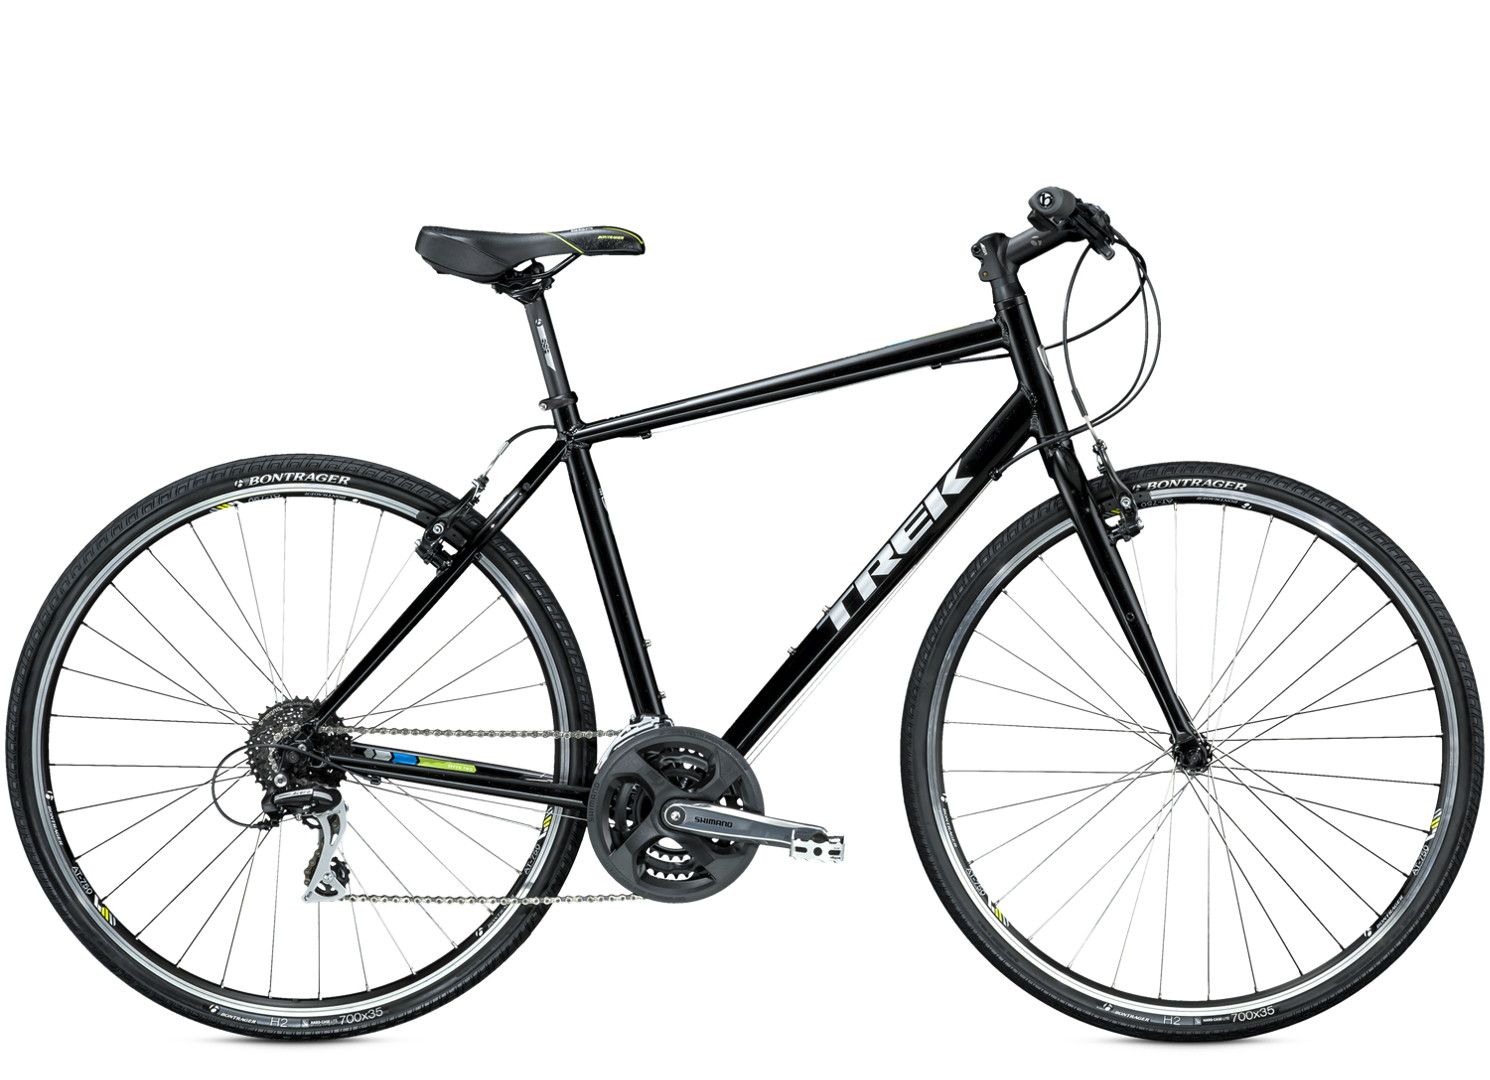
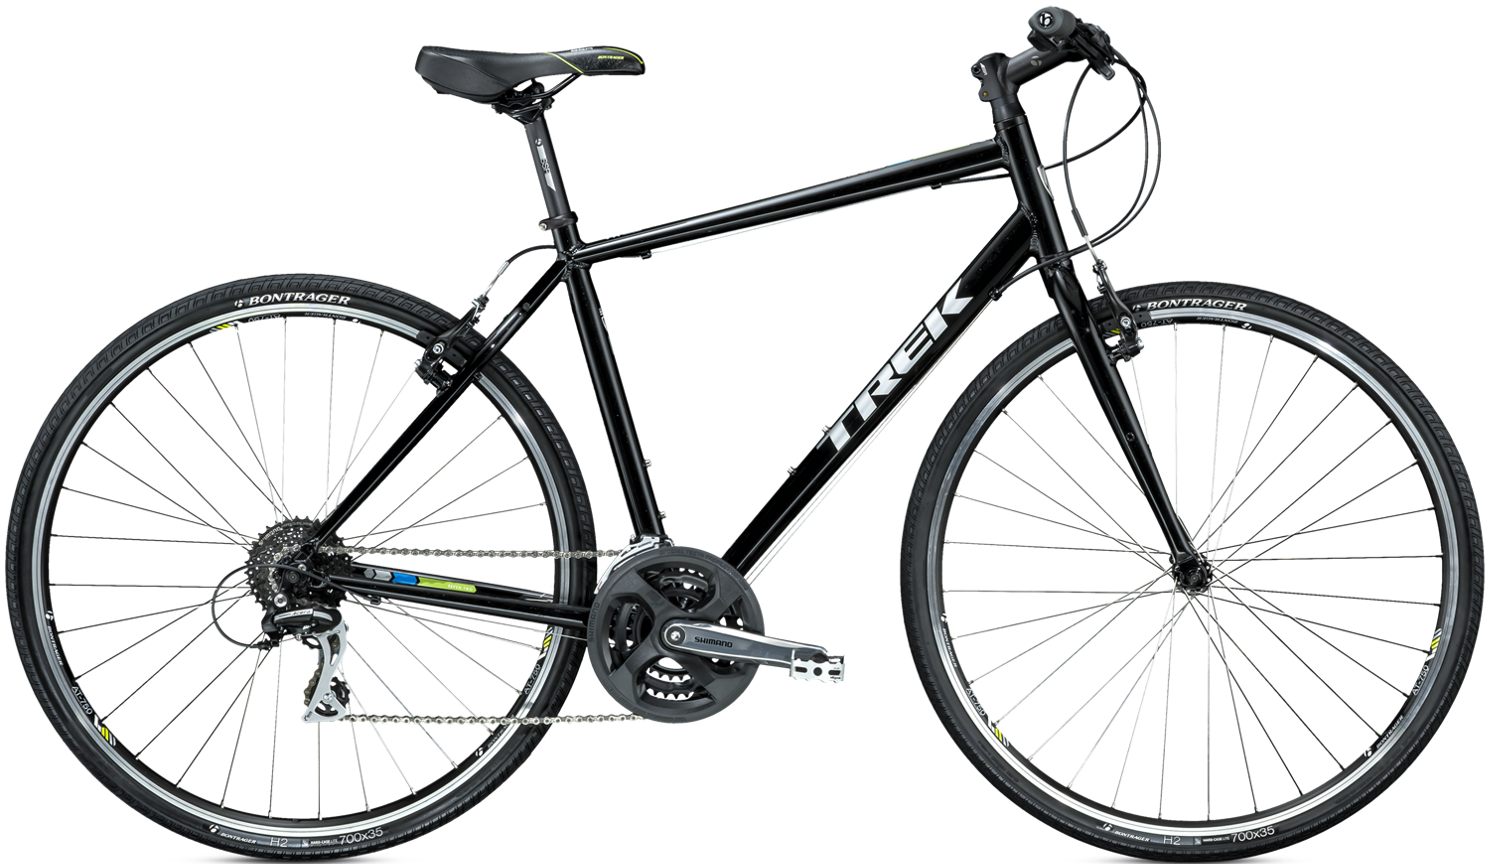
Anasayfa ve kadro boyu sayfasi duzenlendi.

Changed region(s): [[0.0, 0.0, 1.0, 1.0]]

diff --git a/webProje/wwwroot/css/site.css b/webProje/wwwroot/css/site.css
@@ -192,3 +192,6 @@ header.masthead .bg-circle-4 {
     background-color: rgba(0, 0, 0, 0.7);
     padding: 10px;
 }
+.carousel-item img {
+    margin: auto;
+}

diff --git a/webProje/wwwroot/css/kadro.css b/webProje/wwwroot/css/kadro.css
@@ -1,0 +1,7 @@
+td {
+    color: black;
+}
+h2 {
+    color: #4B1F00;
+}
+

diff --git a/webProje/Controllers/BisikletController.cs b/webProje/Controllers/BisikletController.cs
@@ -27,6 +27,11 @@ namespace webProje.Controllers
             return View(bisikletListe);
         }
 
+        public IActionResult KadroBoyu()
+        {
+            return View();
+        }
+
         [Authorize(Roles = "User")]
         public IActionResult Favoriler()
         {
